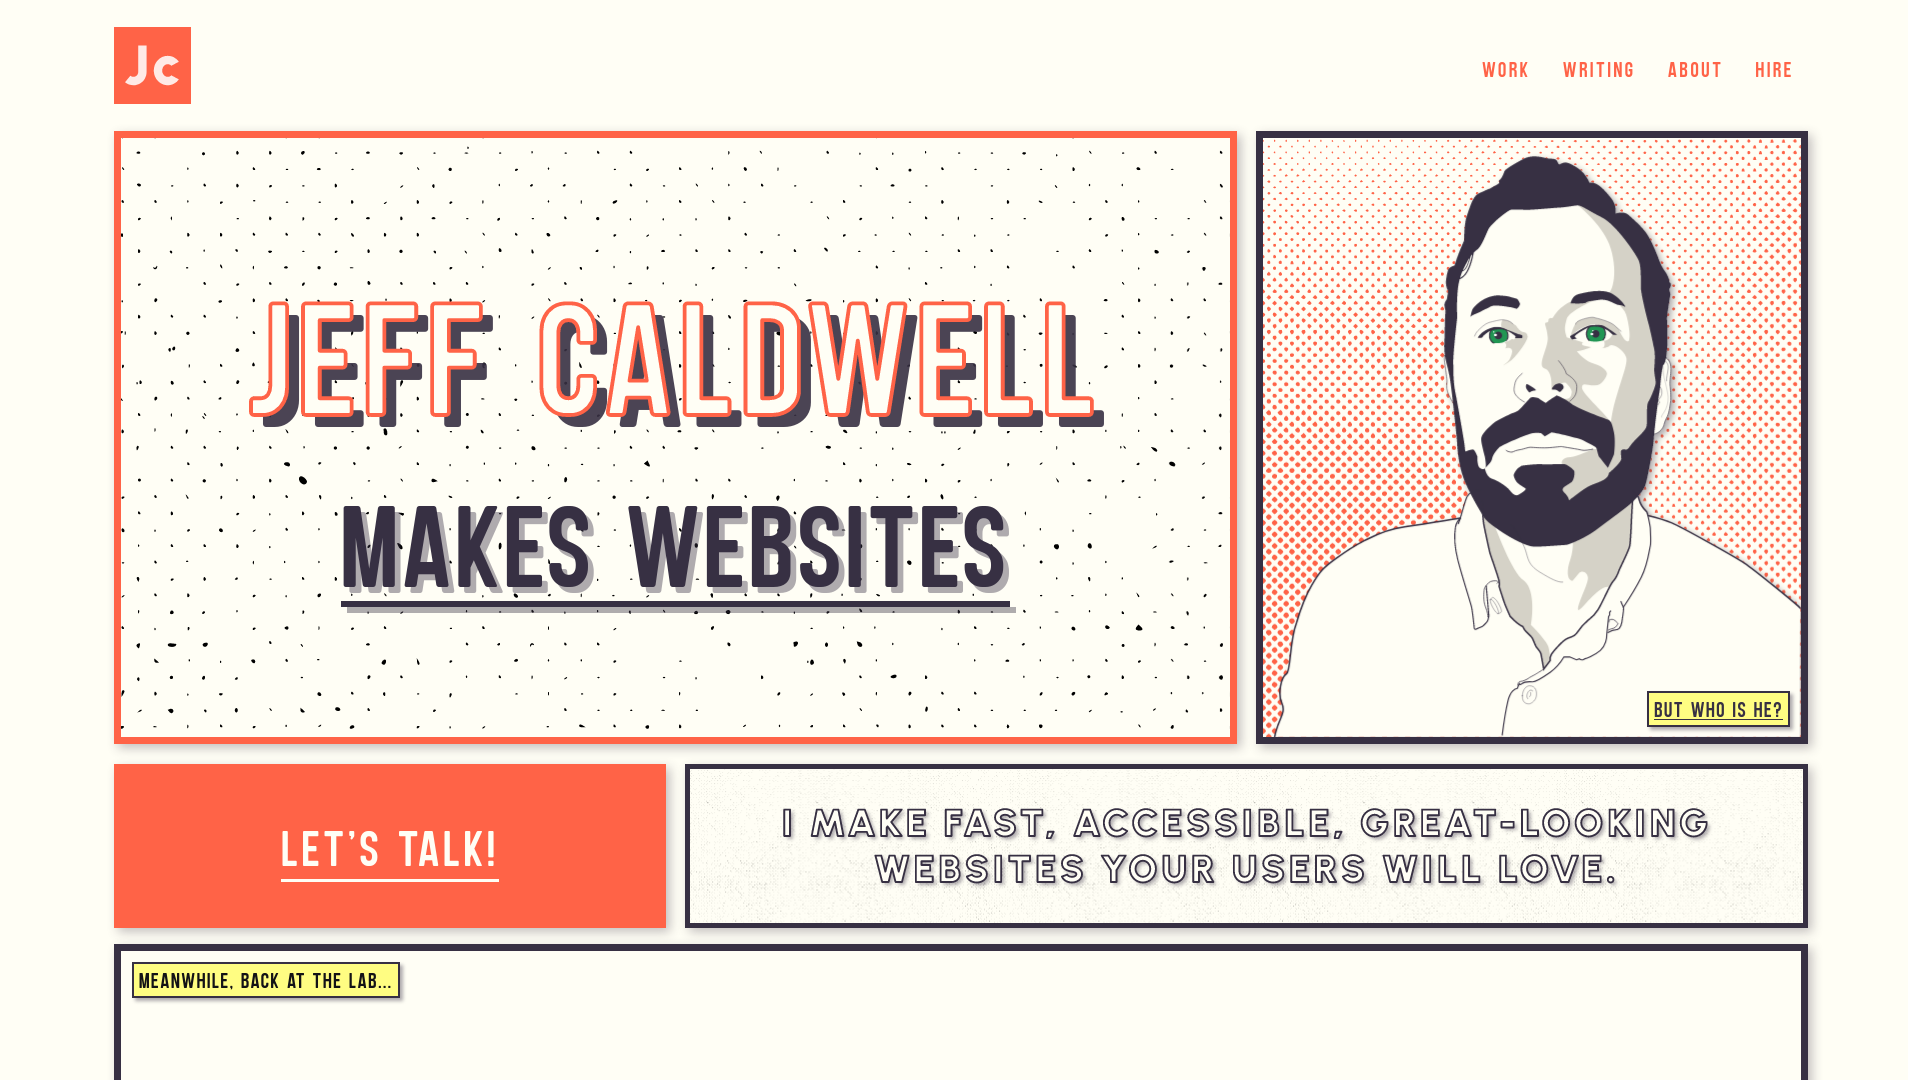
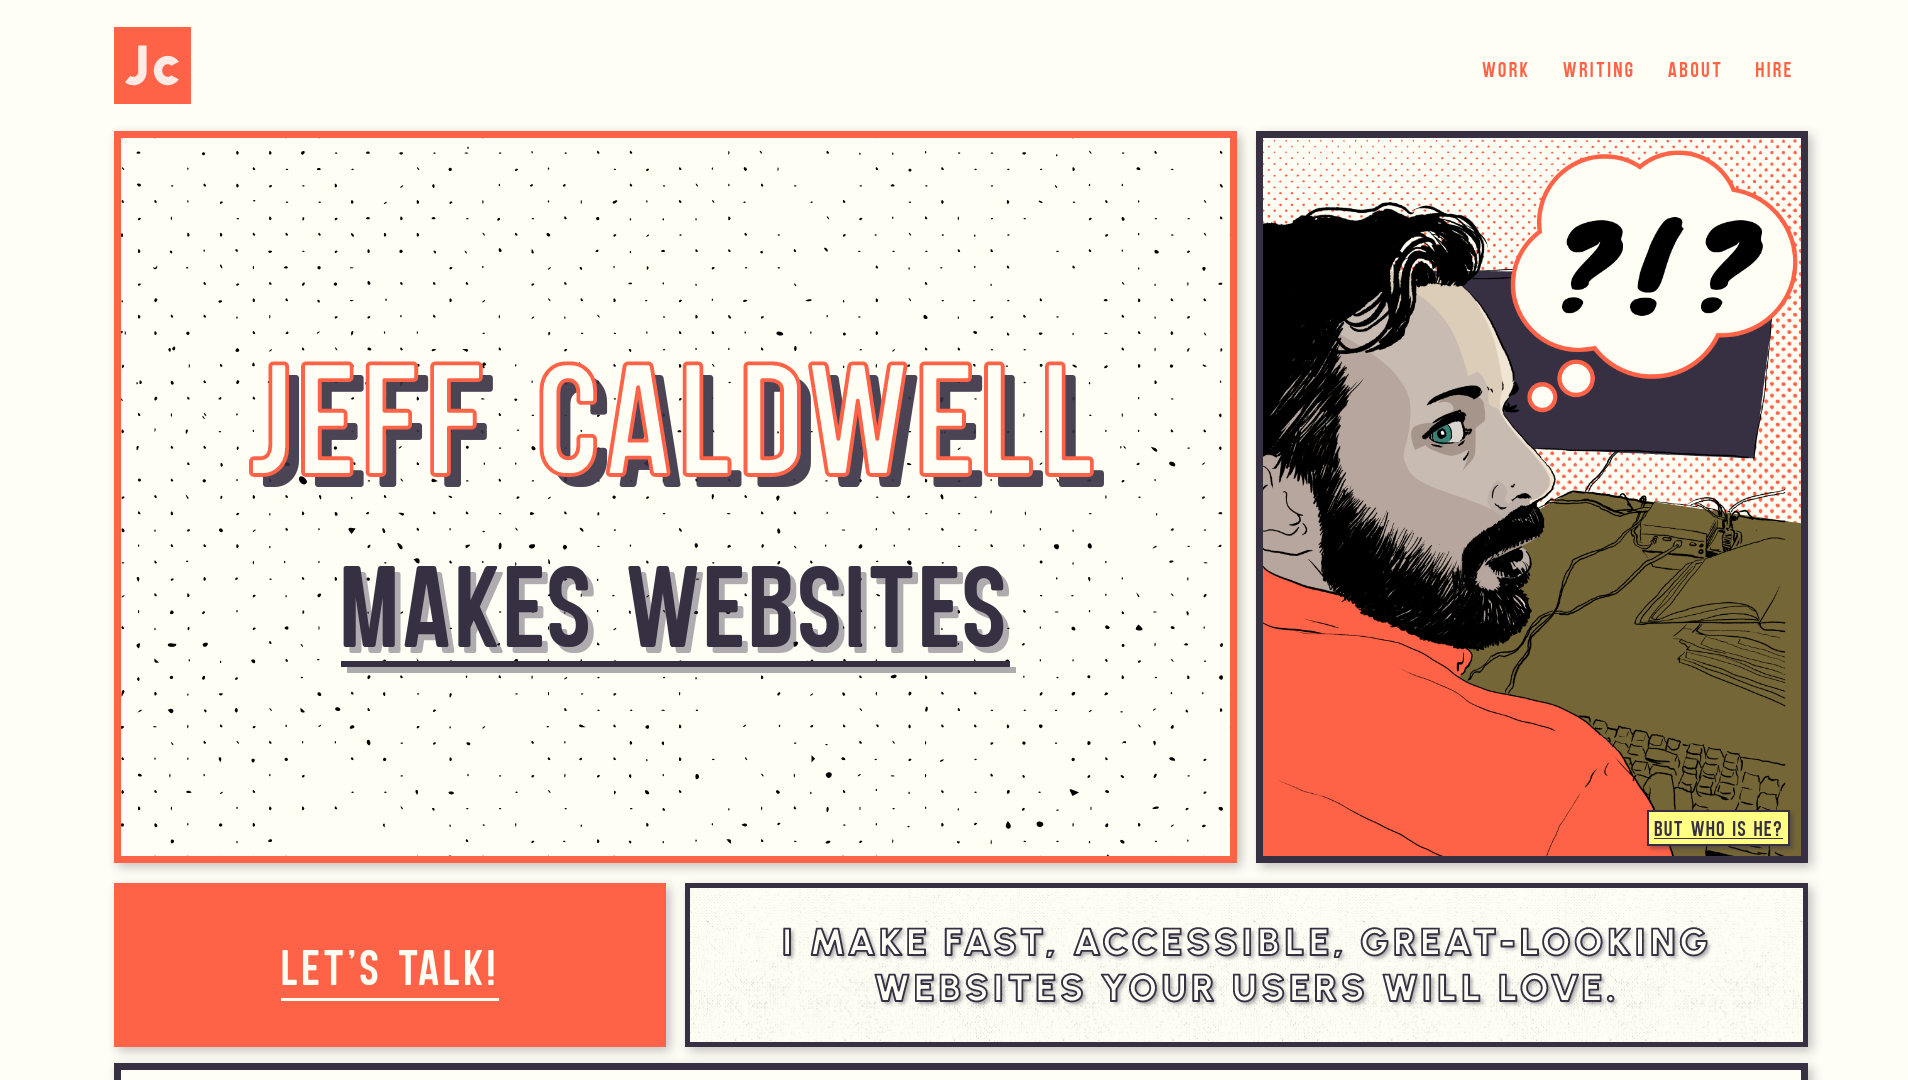
Update illustration size & normalize borders

diff --git a/src/lib/components/partials/home/IntroSection.svelte b/src/lib/components/partials/home/IntroSection.svelte
@@ -45,7 +45,7 @@
         background-repeat: repeat-x;
         box-shadow: var(--panel-elevation);
         background-size: cover;
-        border: 0.4vw solid var(--secondary);
+        border: var(--border-1) solid var(--secondary);
         padding: var(--space-small);
     }
 
@@ -60,7 +60,7 @@
             background-size: contain;
             box-shadow: var(--panel-elevation);
             z-index: 60;
-            border: 0.3vw solid var(--darkblue);
+            border: var(--border-1) solid var(--darkblue);
             padding: var(--space-small);
             p {
                 font-family: var(--sans);

diff --git a/src/lib/components/IntroImage.svelte b/src/lib/components/IntroImage.svelte
@@ -60,7 +60,7 @@
     <path d="M1411.97 2926.34C1413.22 2931.53 1413.96 2943.16 1406.99 2948.14" stroke="#373043" stroke-width="2" stroke-linecap="round" stroke-linejoin="round"/>
     </svg> -->
     <img src="/images/MeComicIllustration.png" alt="Illustration of Jeff Caldwell at a computer">
-    <p id="main-image-caption" class="panel-caption" width="856" height="1143">
+    <p id="main-image-caption" class="panel-caption" width="1163" height="1163">
       <a href="/about" class="panel-link">
         But who is he?
       </a>
